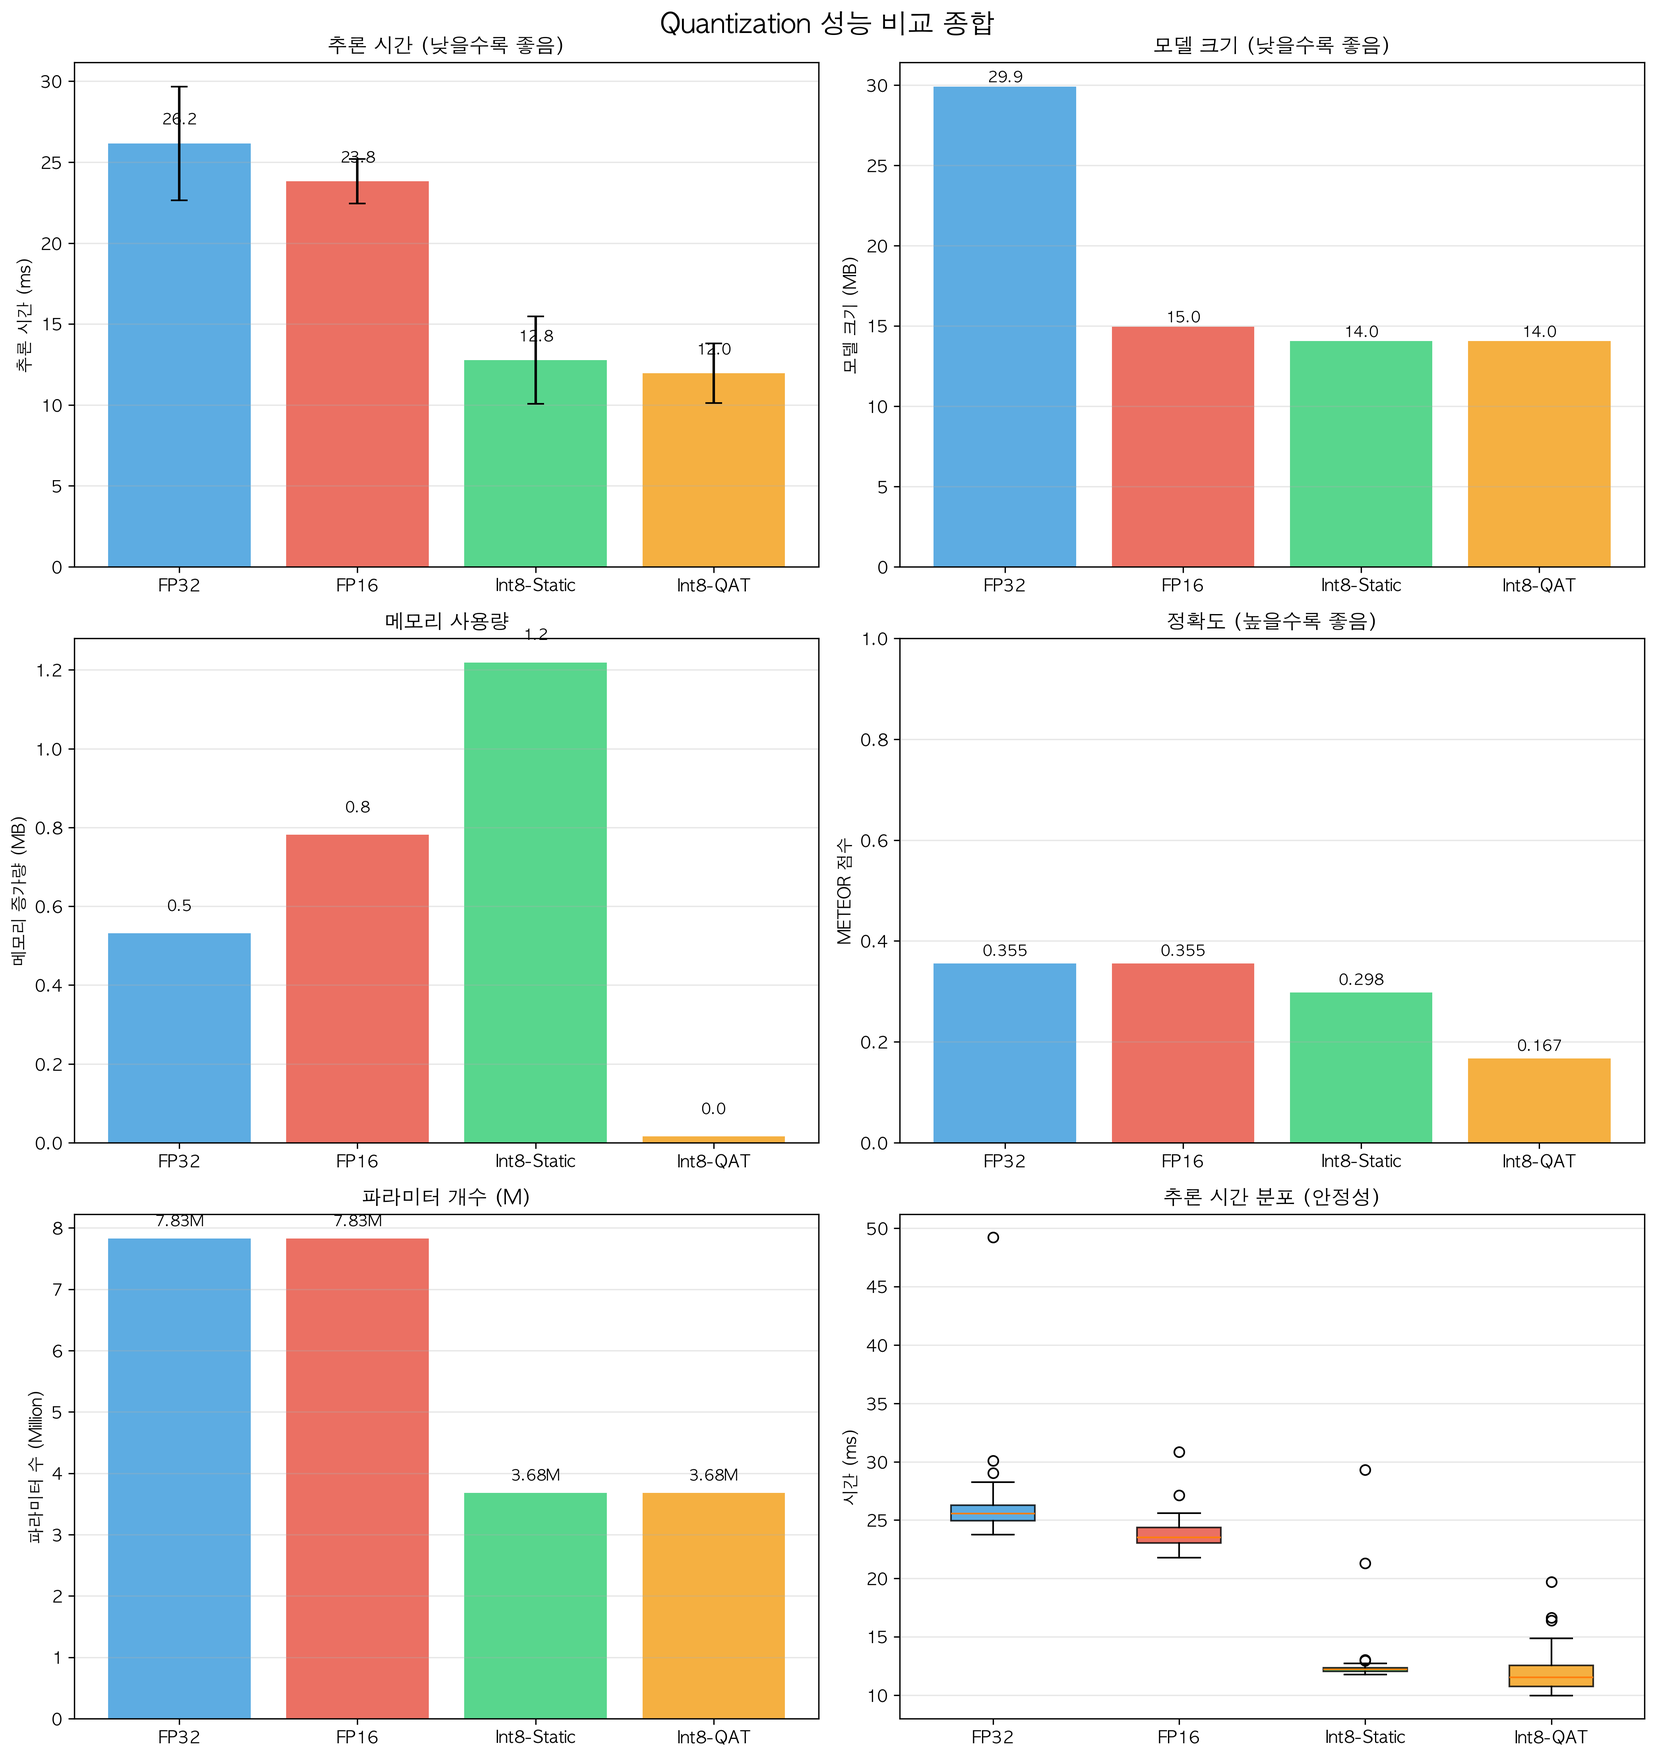
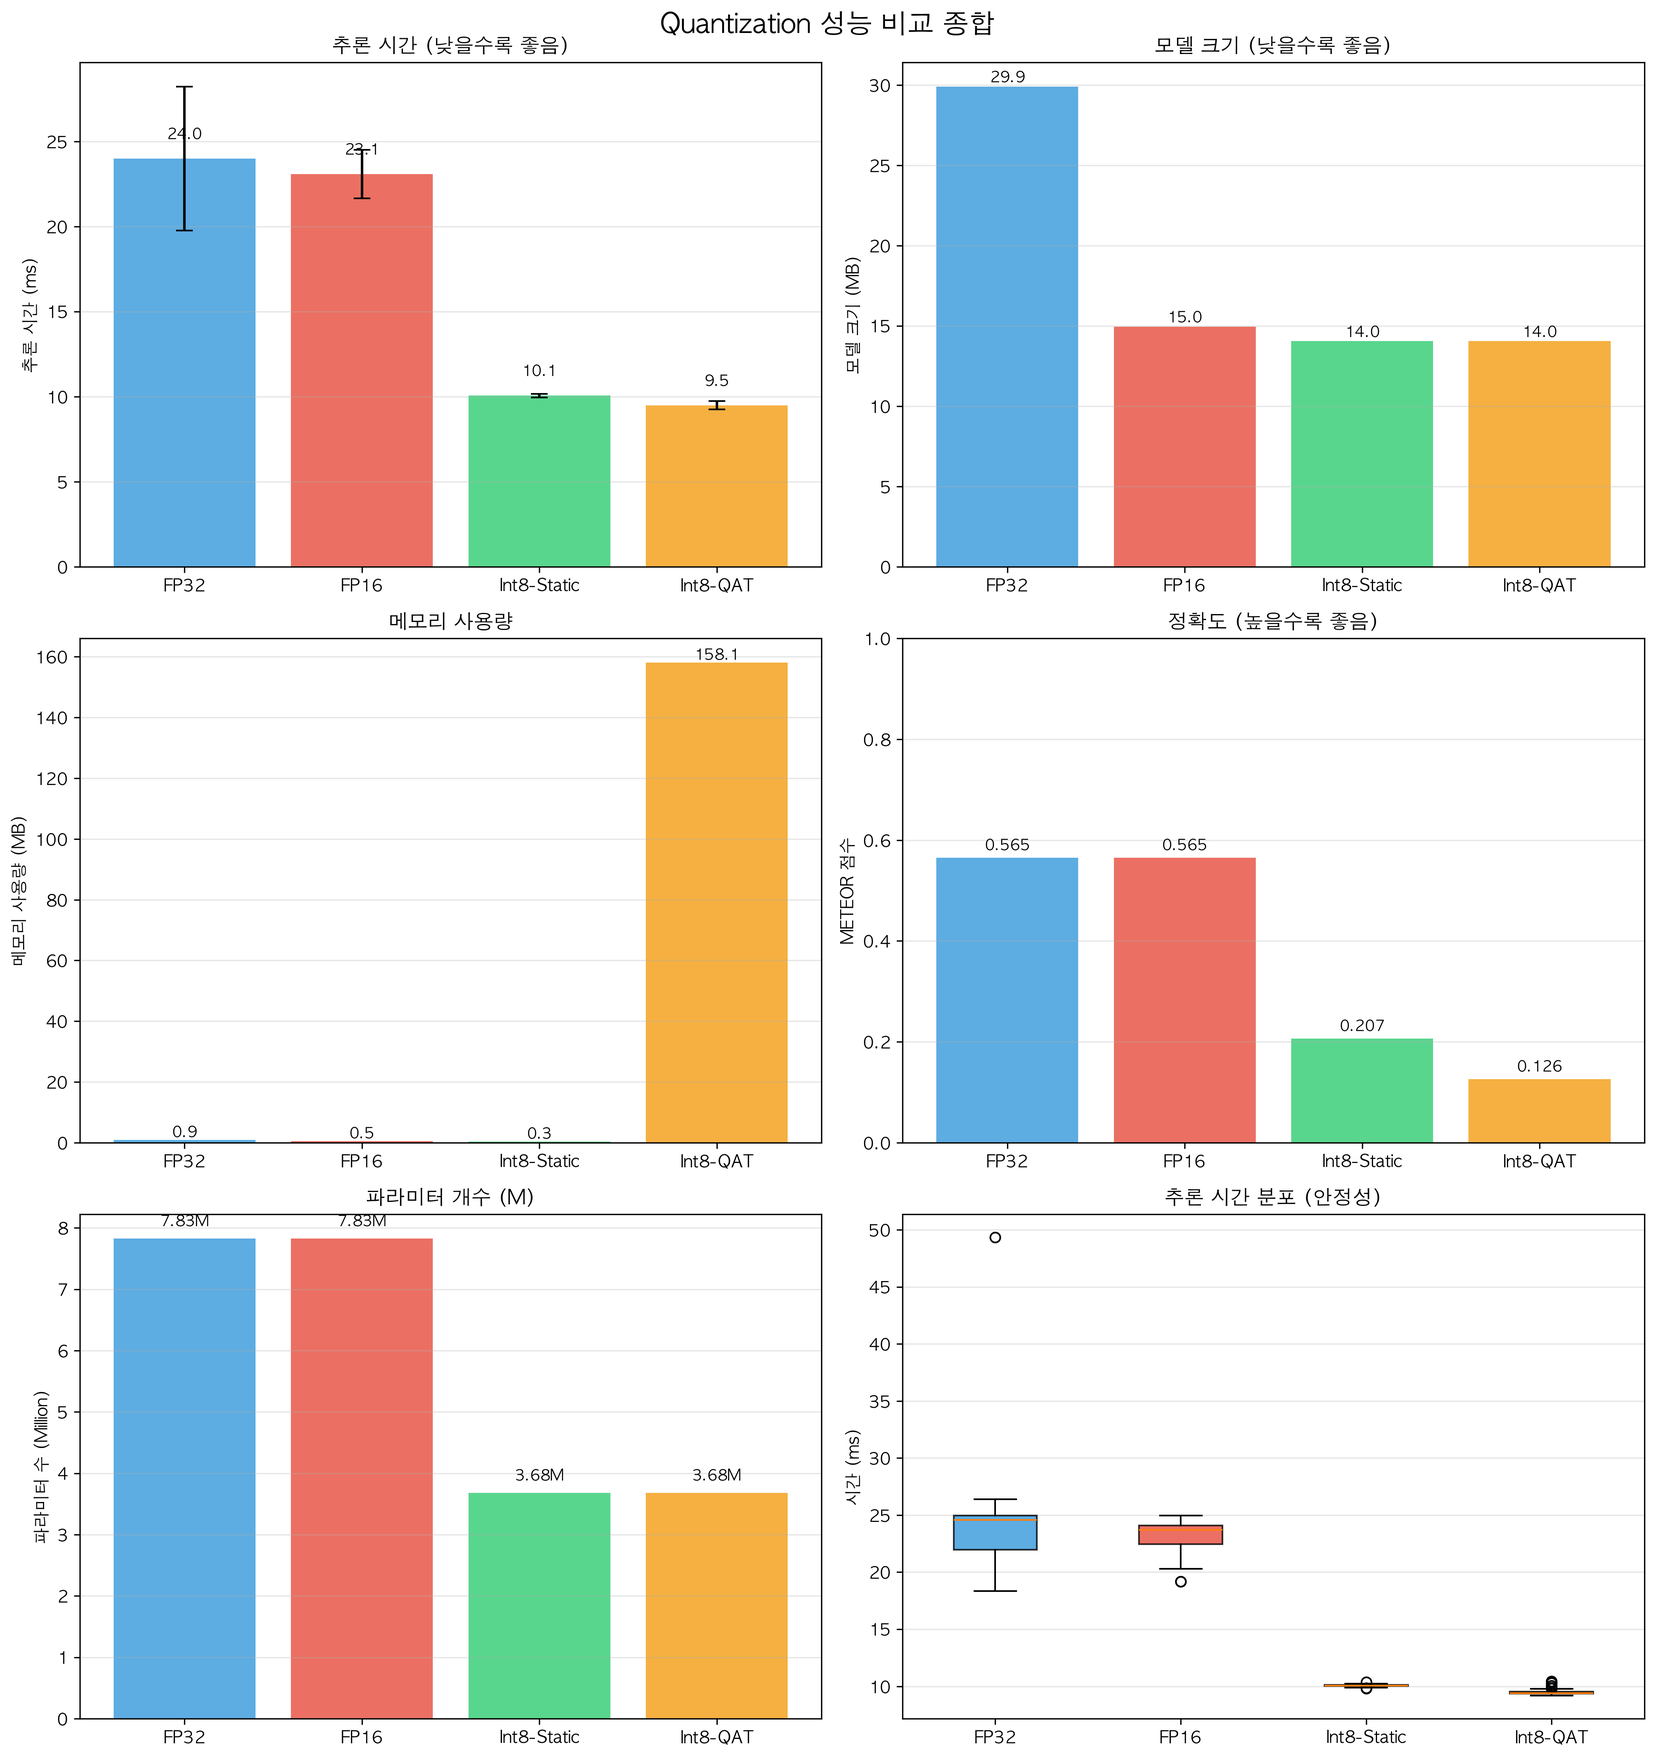
finetuning

diff --git a/scripts/train.py b/scripts/train.py
@@ -1,6 +1,7 @@
 import torch
 import torch.nn as nn
 import torch.optim as optim
+from torch.optim.lr_scheduler import ReduceLROnPlateau
 from torch.utils.data import DataLoader, Dataset
 from torchvision import transforms
 from PIL import Image
@@ -10,7 +11,9 @@ import random
 import numpy as np
 from collections import Counter, defaultdict
 from src.muti_modal_model.model import MobileNetCaptioningModel
-
+import warnings
+from tqdm import tqdm
+warnings.filterwarnings("ignore")
 # METEOR 점수 계산을 위한 nltk
 try:
     from nltk.translate.meteor_score import meteor_score
@@ -44,7 +47,7 @@ else:
     device = torch.device("cpu")
     print("CPU 모드로 실행")
 
-LEARNING_RATE = 2e-4  # 학습률 (너무 크면 발산함)
+LEARNING_RATE = 4e-4  # 학습률 (너무 크면 발산함)
 BATCH_SIZE = 64 if device.type != "cpu" else 16  # GPU/MPS 사용 시 더 큰 배치
 EPOCHS = 100          # 전체 반복 횟수
 MAX_CAPTION_LEN = 50  # 최대 캡션 길이
@@ -300,8 +303,7 @@ class CaptionDataset(Dataset):
 def train_epoch(model, dataloader, criterion, optimizer, epoch, vocab_size, scaler=None, use_mixed_precision=False):
     model.train() # 학습 모드 설정
     total_loss = 0
-    
-    for i, (imgs, caps) in enumerate(dataloader):
+    for i, (imgs, caps) in enumerate(tqdm(dataloader, desc=f"Training Epoch {epoch+1}")):
         imgs = imgs.to(device, non_blocking=True)
         caps = caps.to(device, non_blocking=True)
         
@@ -370,11 +372,41 @@ def train_epoch(model, dataloader, criterion, optimizer, epoch, vocab_size, scal
         
         total_loss += loss.item()
         
-        if i % 10 == 0:
-            print(f"Epoch [{epoch+1}/{EPOCHS}], Step [{i}/{len(dataloader)}], Loss: {loss.item():.4f}")
+        # if i % 10 == 0:
+        #     print(f"Epoch [{epoch+1}/{EPOCHS}], Step [{i}/{len(dataloader)}], Loss: {loss.item():.4f}")
     return total_loss / len(dataloader)
 
-# --- [3] 여러 샘플로 캡션 생성 및 검증 출력 ---
+# --- [2.5] 검증 함수 정의 ---
+def validate_epoch(model, val_dataloader, criterion, epoch, vocab_size):
+    """검증 데이터셋에서 모델 평가"""
+    model.eval()
+    total_val_loss = 0
+    
+    with torch.no_grad():
+        for i, (imgs, caps) in enumerate(val_dataloader):
+            imgs = imgs.to(device, non_blocking=True)
+            caps = caps.to(device, non_blocking=True)
+            
+            # 모델 예측 (Forward)
+            outputs, alphas = model(imgs, caps)
+            
+            # 정답과 비교를 위한 차원 조절
+            targets = caps[:, 1:] 
+            outputs = outputs[:, :targets.shape[1], :]
+            
+            # 손실 계산
+            loss = criterion(outputs.reshape(-1, vocab_size), targets.reshape(-1))
+            total_val_loss += loss.item()
+            
+            if i % 10 == 0:
+                print(f"  Validation Step [{i}/{len(val_dataloader)}], Loss: {loss.item():.4f}")
+    
+    avg_val_loss = total_val_loss / len(val_dataloader)
+    model.train()  # 다시 학습 모드로
+    
+    return avg_val_loss
+
+
 def evaluate_multiple_samples(model, dataset, word_map, rev_word_map, num_samples=5, start_idx=0):
     """여러 샘플 이미지로 캡션을 생성하고 METEOR 점수로 검증"""
     model.eval()
@@ -544,11 +576,38 @@ def main():
     if len(dataset) == 0:
         raise ValueError(f"데이터셋이 비어있습니다. {IMAGES_DIR} 폴더에 이미지가 있는지 확인하세요.")
     
-    # 최적화된 DataLoader 설정
-    dataloader = DataLoader(
+    # 검증 셋 분리 (80% 학습, 20% 검증)
+    val_split_ratio = 0.1
+    val_size = max(1, int(len(dataset) * val_split_ratio))
+    train_size = len(dataset) - val_size
+    
+    # 시드 고정으로 재현성 보장
+    torch.manual_seed(42)
+    train_dataset, val_dataset = torch.utils.data.random_split(
         dataset, 
+        [train_size, val_size]
+    )
+    
+    print(f"✅ 데이터셋 분할 완료:")
+    print(f"   • 학습 셋: {len(train_dataset)}개 샘플")
+    print(f"   • 검증 셋: {len(val_dataset)}개 샘플")
+    
+    # 최적화된 DataLoader 설정
+    train_dataloader = DataLoader(
+        train_dataset, 
         batch_size=BATCH_SIZE, 
         shuffle=True, 
+        num_workers=NUM_WORKERS,
+        pin_memory=PIN_MEMORY,
+        persistent_workers=True if NUM_WORKERS > 0 else False,
+        prefetch_factor=2 if NUM_WORKERS > 0 else None
+    )
+    
+    # 검증 데이터 로더 (셔플 불필요)
+    val_dataloader = DataLoader(
+        val_dataset, 
+        batch_size=BATCH_SIZE, 
+        shuffle=False, 
         num_workers=NUM_WORKERS,
         pin_memory=PIN_MEMORY,
         persistent_workers=True if NUM_WORKERS > 0 else False,
@@ -599,6 +658,15 @@ def main():
     # filter를 써서 requires_grad=True인 파라미터(디코더)만 업데이트 목록에 넣음
     optimizer = optim.Adam(filter(lambda p: p.requires_grad, model.parameters()), lr=LEARNING_RATE)
     
+    # 스케줄러: 검증 손실 기반으로 학습률 동적 조정
+    scheduler = ReduceLROnPlateau(
+        optimizer, 
+        mode='min',           # 손실(min)이 기준 (손실이 낮을수록 좋음)
+        factor=0.66,          # 학습률을 0.66배 감소
+        patience=2,           # 2 에포크 동안 개선 없으면 학습률 감소
+        
+        min_lr=1e-6           # 최소 학습률
+    )
     # 6. 손실 함수 (Padding=0 무시)
     criterion = nn.CrossEntropyLoss(ignore_index=0)
     
@@ -617,23 +685,44 @@ def main():
             use_mixed_precision = False
     
     # 8. 학습 루프
-    print(f"학습 시작 (Encoder Frozen)... 총 {len(dataset)}개 샘플, {EPOCHS} 에포크")
+    print(f"학습 시작 (Encoder Frozen)... 총 {len(train_dataset)}개 샘플, {EPOCHS} 에포크")
     print(f"배치 크기: {BATCH_SIZE}, 디바이스: {device}, Mixed Precision: {use_mixed_precision}")
     
     # 검증 설정
-    VAL_NUM_SAMPLES = 5  # 검증에 사용할 샘플 수
-    val_start_idx = 0  # 검증 시작 인덱스 (매 epoch마다 변경 가능)
+    VAL_NUM_SAMPLES = min(5, len(val_dataset))  # 검증에 사용할 샘플 수
+    
+    # 학습 이력 추적
+    train_losses = []
+    val_losses = []
     
     # 체크포인트에서 이어서 학습하는 경우
     for epoch in range(start_epoch, EPOCHS):
-        avg_loss = train_epoch(model, dataloader, criterion, optimizer, epoch, vocab_size, scaler, use_mixed_precision)
-        print(f"=== Epoch {epoch+1}/{EPOCHS} 완료. 평균 Loss: {avg_loss:.4f} ===")
+        print(f"\n{'='*70}")
+        print(f"Epoch {epoch+1}/{EPOCHS} 시작")
+        print(f"{'='*70}")
         
-        # 여러 샘플로 검증 및 출력
+        # 학습 에포크
+        avg_train_loss = train_epoch(model, train_dataloader, criterion, optimizer, epoch, vocab_size, scaler, use_mixed_precision)
+        train_losses.append(avg_train_loss)
+        print(f"✅ 학습 완료. 평균 Loss: {avg_train_loss:.4f}")
+        
+        # 검증 에포크
+        print(f"\n🔍 검증 시작...")
+        avg_val_loss = validate_epoch(model, val_dataloader, criterion, epoch, vocab_size)
+        val_losses.append(avg_val_loss)
+        print(f"✅ 검증 완료. 평균 Loss: {avg_val_loss:.4f}")
+        
+        # 스케줄러 업데이트 (검증 손실 기반)
+        scheduler.step(avg_val_loss)
+        current_lr = optimizer.param_groups[0]['lr']
+        print(f"📊 스케줄러 업데이트 - 현재 Learning Rate: {current_lr:.2e}")
+        
+        # 여러 샘플로 세부 검증 및 출력
+        print(f"\n📸 세부 검증 (METEOR 점수):")
         val_results = evaluate_multiple_samples(
-            model, dataset, word_map, rev_word_map, 
+            model, val_dataset.dataset, word_map, rev_word_map, 
             num_samples=VAL_NUM_SAMPLES, 
-            start_idx=(val_start_idx + epoch * VAL_NUM_SAMPLES) % len(dataset)
+            start_idx=(epoch * VAL_NUM_SAMPLES) % len(val_dataset)
         )
         
         # [옵션] 특정 Epoch 이후에 인코더도 같이 학습시키고 싶다면? (Fine-tuning)
@@ -645,21 +734,31 @@ def main():
             
             # 옵티마이저에 인코더 파라미터도 추가 (학습률은 더 낮게 잡는 게 좋음)
             optimizer = optim.Adam(model.parameters(), lr=LEARNING_RATE * 0.1)
+            scheduler = ReduceLROnPlateau(
+                optimizer, 
+                mode='min', 
+                factor=0.66, 
+                patience=2,
+            )
 
         # 주기적으로 모델 저장
-        save_path = os.path.join(MODEL_SAVE_DIR, f"lightweight_captioning_model_{epoch+1}_epoch.pth")
+        save_path = os.path.join(MODEL_SAVE_DIR, f"lightweight_captioning_model_{epoch+1}_epoch_loss_{avg_val_loss:.4f}.pth")
         try:
             torch.save({
                 'model_state_dict': model.state_dict(),
                 'word_map': word_map,
                 'rev_word_map': rev_word_map,
                 'vocab_size': vocab_size,
-                'epoch': epoch + 1
+                'epoch': epoch + 1,
+                'train_loss': avg_train_loss,
+                'val_loss': avg_val_loss
             }, save_path)
             print(f"✅ 모델 저장 완료: {save_path}")
         except Exception as e:
             print(f"❌ 모델 저장 실패: {e}")
             print(f"   저장 경로: {save_path}")
+        
+        print(f"{'='*70}\n")
     
     # 8. 최종 모델 저장
     final_save_path = os.path.join(MODEL_SAVE_DIR, "lightweight_captioning_model.pth")
@@ -669,9 +768,22 @@ def main():
             'word_map': word_map,
             'rev_word_map': rev_word_map,
             'vocab_size': vocab_size,
-            'epoch': EPOCHS
+            'epoch': EPOCHS,
+            'train_losses': train_losses,
+            'val_losses': val_losses
         }, final_save_path)
-        print(f"✅ 최종 모델 저장 완료: {final_save_path}")
+        print(f"\n✅ 최종 모델 저장 완료: {final_save_path}")
+        
+        # 학습 통계 출력
+        print(f"\n{'='*70}")
+        print(f"📊 학습 완료 통계:")
+        print(f"{'='*70}")
+        print(f"  • 최종 학습 손실: {train_losses[-1]:.4f}")
+        print(f"  • 최종 검증 손실: {val_losses[-1]:.4f}")
+        print(f"  • 최소 검증 손실: {min(val_losses):.4f} (Epoch {val_losses.index(min(val_losses))+1})")
+        print(f"  • 학습 손실 개선도: {((train_losses[0]-train_losses[-1])/train_losses[0]*100):.2f}%")
+        print(f"  • 검증 손실 개선도: {((val_losses[0]-val_losses[-1])/val_losses[0]*100):.2f}%")
+        print(f"{'='*70}\n")
     except Exception as e:
         print(f"❌ 최종 모델 저장 실패: {e}")
         print(f"   저장 경로: {final_save_path}")

diff --git a/scripts/qat_fine_tuning.py b/scripts/qat_fine_tuning.py
@@ -75,7 +75,7 @@ OUTPUT_DIR = "qat_results"
 NUM_RUNS = 50
 
 # QAT 설정
-QAT_EPOCHS = 3  # QAT 학습 epoch 수 (더 많은 학습으로 더 나은 결과)
+QAT_EPOCHS = 30  # QAT 학습 epoch 수 (더 많은 학습으로 더 나은 결과)
 
 # 디바이스 선택
 device = torch.device("cuda" if torch.cuda.is_available() else "cpu")
@@ -474,21 +474,21 @@ def convert_to_int8_qat(model, word_map=None, qat_epochs=3):
         print(f"   📚 학습 데이터: {len(dataset)}개 샘플")
         
         # Mixed Precision 설정
+        # QAT는 양자화 연산을 포함하므로 CPU에서만 안정적으로 동작
+        # MPS는 양자화 연산(aten::_fused_moving_avg_obs_fq_helper)을 지원하지 않음
         use_mixed_precision = False
         scaler = None
         qat_device = torch.device("cpu")
         
         if torch.cuda.is_available():
-            qat_device = torch.device("cuda")
-            model_cpu = model_cpu.to(qat_device)
-            use_mixed_precision = True
-            scaler = torch.cuda.amp.GradScaler()
-            print("   🚀 GPU 사용 - FP16 Mixed Precision 활성화")
-        elif hasattr(torch.backends, 'mps') and torch.backends.mps.is_available():
-            qat_device = torch.device("mps")
-            model_cpu = model_cpu.to(qat_device)
-            use_mixed_precision = True
-            print("   🚀 MPS 사용 - FP16 Mixed Precision 활성화")
+            # CUDA는 양자화를 지원하지만, 안정성을 위해 CPU 사용 권장
+            # 필요시 아래 주석을 해제하여 CUDA 사용 가능
+            # qat_device = torch.device("cuda")
+            # model_cpu = model_cpu.to(qat_device)
+            # use_mixed_precision = True
+            # scaler = torch.cuda.amp.GradScaler()
+            # print("   🚀 GPU 사용 - FP16 Mixed Precision 활성화")
+            print("   💻 CPU 사용 - QAT는 CPU에서 안정적으로 동작 (양자화 연산 지원)")
         else:
             print("   💻 CPU 사용 - FP32 학습")
         
@@ -510,33 +510,13 @@ def convert_to_int8_qat(model, word_map=None, qat_epochs=3):
                 optimizer.zero_grad()
                 
                 try:
-                    if use_mixed_precision:
-                        if qat_device.type == "cuda" and scaler is not None:
-                            with torch.cuda.amp.autocast():
-                                outputs, alphas = model_cpu(imgs, caps)
-                                targets = caps[:, 1:]
-                                outputs = outputs[:, :targets.shape[1], :]
-                                loss = criterion(outputs.reshape(-1, vocab_size), targets.reshape(-1))
-                            
-                            scaler.scale(loss).backward()
-                            scaler.step(optimizer)
-                            scaler.update()
-                        elif qat_device.type == "mps":
-                            with torch.amp.autocast(device_type="mps", dtype=torch.float16):
-                                outputs, alphas = model_cpu(imgs, caps)
-                                targets = caps[:, 1:]
-                                outputs = outputs[:, :targets.shape[1], :]
-                                loss = criterion(outputs.reshape(-1, vocab_size), targets.reshape(-1))
-                            
-                            loss.backward()
-                            optimizer.step()
-                    else:
-                        outputs, alphas = model_cpu(imgs, caps)
-                        targets = caps[:, 1:]
-                        outputs = outputs[:, :targets.shape[1], :]
-                        loss = criterion(outputs.reshape(-1, vocab_size), targets.reshape(-1))
-                        loss.backward()
-                        optimizer.step()
+                    # QAT는 CPU에서만 수행 (양자화 연산이 MPS에서 지원되지 않음)
+                    outputs, alphas = model_cpu(imgs, caps)
+                    targets = caps[:, 1:]
+                    outputs = outputs[:, :targets.shape[1], :]
+                    loss = criterion(outputs.reshape(-1, vocab_size), targets.reshape(-1))
+                    loss.backward()
+                    optimizer.step()
                     
                     epoch_loss += loss.item()
                     num_batches += 1

diff --git a/scripts/benchmark_quantization.py b/scripts/benchmark_quantization.py
@@ -82,7 +82,7 @@ NUM_RUNS = 50
 
 # QAT 설정
 USE_QAT = True 
-QAT_EPOCHS = 2 
+QAT_EPOCHS = 20
 
 # 디바이스 선택
 device = torch.device("cuda" if torch.cuda.is_available() else "cpu")
@@ -380,7 +380,7 @@ def convert_to_int8_qat(model, word_map=None, qat_epochs=2):
         print(f"   💻 QAT 학습 디바이스: CPU (MPS 미지원으로 인한 강제 설정)")
     model_cpu = model_cpu.to(qat_device)
     
-    optimizer = torch.optim.Adam(model_cpu.parameters(), lr=1e-4) # 학습률 낮춤
+    optimizer = torch.optim.Adam(model_cpu.parameters(), lr=4e-4) # 학습률 낮춤
     criterion = nn.CrossEntropyLoss(ignore_index=0)
     
     for epoch in range(qat_epochs):
@@ -606,7 +606,7 @@ def plot_benchmark(results):
     # -------------------------------------------------------
     ax = axes[1, 0]
     bars = ax.bar(precisions, memory_usages, alpha=0.8, color=bar_colors)
-    ax.set_ylabel('메모리 증가량 (MB)', fontweight='bold')
+    ax.set_ylabel('메모리 사용량 (MB)', fontweight='bold')
     ax.set_title('메모리 사용량', fontweight='bold')
     ax.grid(axis='y', alpha=0.3)
     for bar, mem in zip(bars, memory_usages):
